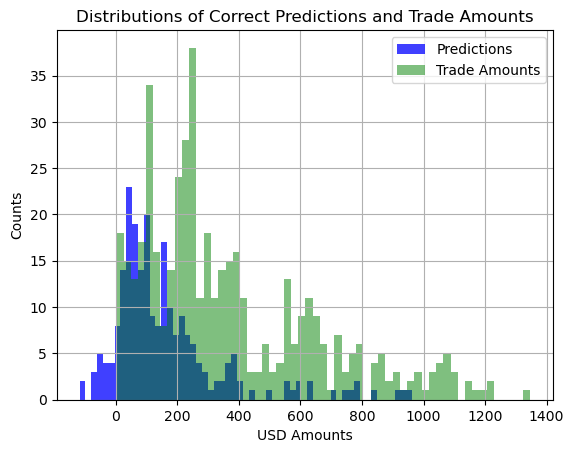
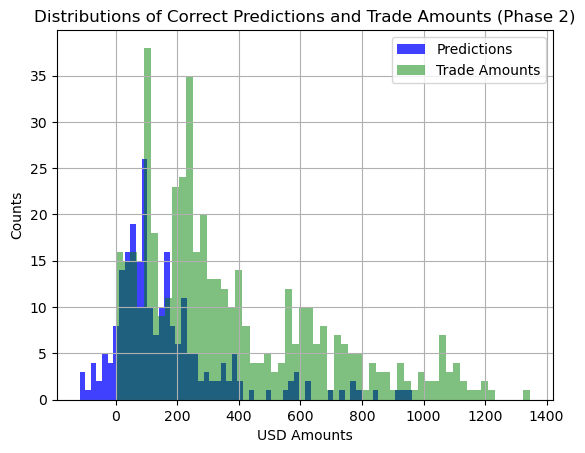
Improve plots

Changed region(s): [[0.0, 0.0, 1.0, 0.989], [0.0, 0.4327, 0.0296, 0.4636]]

diff --git a/experiments/crunch_numbers.py b/experiments/crunch_numbers.py
@@ -95,8 +95,8 @@ def crunch_numbers() -> None:
         plt.bar(names, sums, color=bar_colors)
         plt.xlabel('Strategy')
         plt.xticks(rotation=90)
-        plt.ylabel('Profit Sum')
-        plt.title(f'Total Profit Sum (Across Every Test Condition)')
+        plt.ylabel('Sum')
+        plt.title(f'Total Profit Sum')
         plt.savefig(f'../experiments/plots/report/profit_sums', bbox_inches='tight')
         plt.clf()
 
@@ -146,8 +146,8 @@ def crunch_numbers() -> None:
         plt.bar(names, avgs, color=bar_colors)
         plt.xlabel('Strategy')
         plt.xticks(rotation=90)
-        plt.ylabel('Average Profit Amount')
-        plt.title(f'Average Profit Amounts (Across Every Test Condition)')
+        plt.ylabel('Amount')
+        plt.title(f'Average Profit Amounts (Phase 2)')
         plt.savefig(f'../experiments/plots/report/avg_profit_amounts', bbox_inches='tight')
         plt.clf()
 
@@ -157,8 +157,8 @@ def crunch_numbers() -> None:
         plt.bar(names, avgs, yerr=standard_errors, color=bar_colors)
         plt.xlabel('Strategy')
         plt.xticks(rotation=90)
-        plt.ylabel('Average Profit Amount')
-        plt.title(f'Average Profit Amounts (Across Every Test Condition) With Standard Errors')
+        plt.ylabel('Amount')
+        plt.title(f'Average Profit Amounts (Phase 2)')
         plt.savefig(f'../experiments/plots/report/avg_profit_amounts_with_se', bbox_inches='tight')
         plt.clf()
 
@@ -169,8 +169,8 @@ def crunch_numbers() -> None:
             bp['boxes'][i].set_facecolor(box_colors[i])
         plt.xlabel('Strategy')
         plt.xticks(list(range(1, len(names) + 1)), names, rotation=90)
-        plt.ylabel('Profit Amount')
-        plt.title(f'Profit Amounts (Across Every Test Condition)')
+        plt.ylabel('Amount')
+        plt.title(f'Profit Amounts (Phase 2)')
         plt.savefig(f'../experiments/plots/report/profit_amounts', bbox_inches='tight')
         plt.clf()
 
@@ -189,8 +189,8 @@ def crunch_numbers() -> None:
         plt.bar(names, profits_averages, color=bar_colors)
         plt.xlabel('Strategy')
         plt.xticks(rotation=90)
-        plt.ylabel('Average Profit Amount')
-        plt.title(f'Average Profit Amounts (2021-2023)')
+        plt.ylabel('Amount')
+        plt.title(f'Average Profit Amounts (Phase 2)')
         plt.savefig(f'../experiments/plots/report/avg_profit_amounts_recent_two', bbox_inches='tight')
         plt.clf()
 
@@ -199,8 +199,8 @@ def crunch_numbers() -> None:
         plt.bar(names, profits_averages, yerr=profits_ses, color=bar_colors)
         plt.xlabel('Strategy')
         plt.xticks(rotation=90)
-        plt.ylabel('Average Profit Amount')
-        plt.title(f'Average Profit Amounts (2021-2023) With Standard Errors')
+        plt.ylabel('Amount')
+        plt.title(f'Average Profit Amounts (Phase 2)')
         plt.savefig(f'../experiments/plots/report/avg_profit_amounts_with_se_recent_two', bbox_inches='tight')
         plt.clf()
 

diff --git a/experiments/alegaatr_metrics.py b/experiments/alegaatr_metrics.py
@@ -30,7 +30,7 @@ def process_alegaatr_metrics() -> None:
         plt.xlabel('USD Amounts')
         plt.ylabel('Counts')
         plt.legend(loc='best')
-        plt.title(f'Distributions of Incorrect Predictions and Trade Amounts')
+        plt.title(f'Distributions of Incorrect Predictions and Trade Amounts (Phase 2)')
         plt.savefig(f'../experiments/plots/report/incorrect', bbox_inches='tight')
         plt.clf()
 
@@ -42,7 +42,7 @@ def process_alegaatr_metrics() -> None:
         plt.xlabel('USD Amounts')
         plt.ylabel('Counts')
         plt.legend(loc='best')
-        plt.title(f'Distributions of Correct Predictions and Trade Amounts')
+        plt.title(f'Distributions of Correct Predictions and Trade Amounts (Phase 2)')
         plt.savefig(f'../experiments/plots/report/correct', bbox_inches='tight')
         plt.clf()
 
@@ -52,7 +52,7 @@ def process_alegaatr_metrics() -> None:
         plt.xlabel('USD Amounts')
         plt.ylabel('Counts')
         plt.legend(loc='best')
-        plt.title(f'Distributions of Correct and Incorrect Predictions')
+        plt.title(f'Distributions of Correct and Incorrect Predictions (Phase 2)')
         plt.savefig(f'../experiments/plots/report/correct_incorrect', bbox_inches='tight')
         plt.clf()
 
